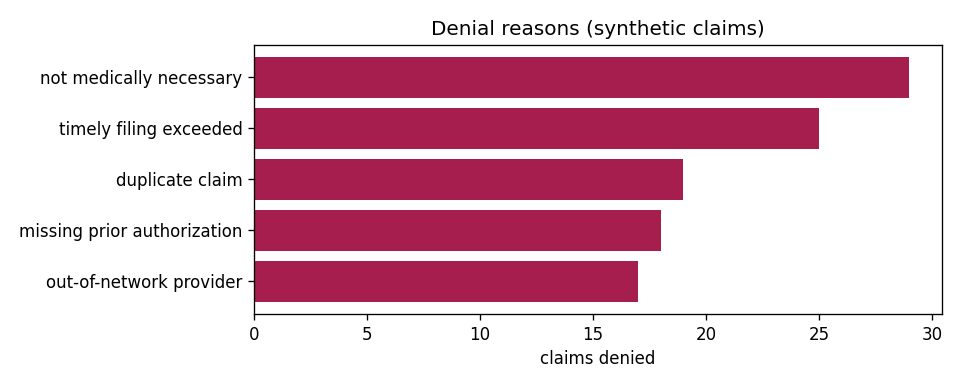
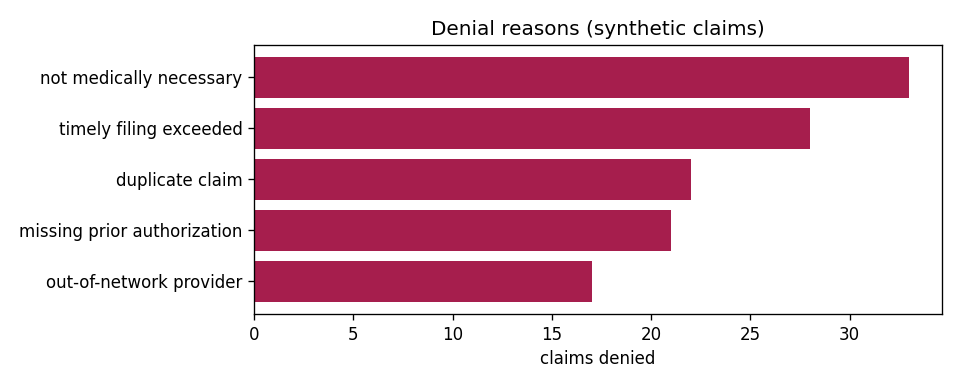
Add cost-by-age-band mart and chart
Average paid per claim and denial rate by age band, in the report with a chart (synthetic, illustrative). +120 synthetic claims, 2 new tests (34 total).

diff --git a/src/healthdata/report.py b/src/healthdata/report.py
@@ -14,7 +14,8 @@ def render_markdown(monthly: list[dict], denial_reasons: list[tuple[str, int]],
                     generated_at: dt.datetime | None = None,
                     plan_perf: list[dict] | None = None,
                     procedures: list[dict] | None = None,
-                    utilization: dict | None = None) -> str:
+                    utilization: dict | None = None,
+                    age_bands: list[dict] | None = None) -> str:
     generated_at = generated_at or dt.datetime.now(dt.timezone.utc)
     total_paid = sum(m["paid"] for m in monthly)
     total_billed = sum(m["billed"] for m in monthly)
@@ -67,6 +68,8 @@ def render_markdown(monthly: list[dict], denial_reasons: list[tuple[str, int]],
                   "| Member | Claims | Paid |", "| --- | ---: | ---: |"]
         for r in utilization["top"]:
             lines.append(f"| {r['member_id']} | {r['claims']} | ${r['paid']:,.0f} |")
+    if age_bands:
+        lines += ["", "## Cost by age band", "", "![Average paid by age band](age_band_costs.png)"]
     lines += [
         "",
         "![Monthly billed vs paid](monthly_financials.png)",
@@ -111,6 +114,23 @@ def plot_denial_reasons(denial_reasons: list[tuple[str, int]], out_path) -> bool
     ax.set_title("Denial reasons (synthetic claims)")
     ax.set_xlabel("claims denied")
     ax.invert_yaxis()
+    fig.tight_layout()
+    fig.savefig(out_path, dpi=120)
+    plt.close(fig)
+    return True
+
+
+def plot_age_band_costs(age_bands: list[dict], out_path) -> bool:
+    if not age_bands:
+        return False
+    names = [b["age_band"] for b in age_bands]
+    fig, ax = plt.subplots(figsize=(8, 3.6))
+    bars = ax.bar(names, [b["avg_paid"] for b in age_bands], color="#1c7ed6")
+    for bar, b in zip(bars, age_bands):
+        ax.annotate(f"{b['denial_rate']:.0%} denied", (bar.get_x() + bar.get_width() / 2,
+                    bar.get_height()), ha="center", va="bottom", fontsize=8)
+    ax.set_title("Average paid per claim by age band (synthetic claims)")
+    ax.set_ylabel("USD per claim")
     fig.tight_layout()
     fig.savefig(out_path, dpi=120)
     plt.close(fig)

diff --git a/tests/test_pipeline.py b/tests/test_pipeline.py
@@ -140,3 +140,24 @@ def test_report_includes_utilization_section():
         "members_total": 10, "high_utilizers": 2, "share_of_paid": 0.25,
         "top": [{"member_id": "MBR-0001", "claims": 4, "paid": 900.0}]})
     assert "## Member utilization" in md and "| MBR-0001 | 4 | $900 |" in md
+
+
+def test_age_band_costs_order_and_math(tmp_path):
+    pipe = Pipeline(tmp_path / "c.csv")
+    pipe.ingest([
+        make_valid("CLM-1", age_band="60-74", billed_amount=100, allowed_amount=80, paid_amount=60),
+        make_valid("CLM-2", age_band="0-17", billed_amount=100, allowed_amount=80, paid_amount=40),
+        make_valid("CLM-3", age_band="0-17", billed_amount=100, allowed_amount=0, paid_amount=0,
+                   status="denied", denial_reason="duplicate claim"),
+    ])
+    out = pipe.age_band_costs()
+    assert [b["age_band"] for b in out] == ["0-17", "60-74"]  # natural age order
+    assert out[0]["avg_paid"] == 20.0 and out[0]["denial_rate"] == 0.5
+
+
+def test_age_band_chart_written(tmp_path):
+    from healthdata import report
+    bands = [{"age_band": "0-17", "claims": 2, "avg_paid": 20.0, "denial_rate": 0.5}]
+    assert report.plot_age_band_costs(bands, tmp_path / "a.png")
+    assert (tmp_path / "a.png").stat().st_size > 1000
+    assert report.plot_age_band_costs([], tmp_path / "b.png") is False

diff --git a/src/healthdata/pipeline.py b/src/healthdata/pipeline.py
@@ -177,3 +177,21 @@ class Pipeline:
             "top": [{"member_id": m["member_id"], "claims": m["claims"],
                      "paid": round(m["paid"], 2)} for m in top_rows],
         }
+
+    def age_band_costs(self) -> list[dict]:
+        """Claims, average paid per claim and denial rate by age band, in
+        natural age order. Illustrative synthetic metrics."""
+        from .claims import AGE_BANDS
+        store = self.load_store()
+        bands: dict[str, dict] = {}
+        for row in store.values():
+            b = bands.setdefault(row["age_band"] or "Unknown",
+                                 {"claims": 0, "paid": 0.0, "denied": 0})
+            b["claims"] += 1
+            b["paid"] += float(row["paid_amount"] or 0)
+            b["denied"] += row["status"] == "denied"
+        order = {band: i for i, band in enumerate(AGE_BANDS)}
+        return [{"age_band": name, "claims": b["claims"],
+                 "avg_paid": round(b["paid"] / b["claims"], 2),
+                 "denial_rate": round(b["denied"] / b["claims"], 4)}
+                for name, b in sorted(bands.items(), key=lambda kv: (order.get(kv[0], 99), kv[0]))]

diff --git a/scripts/daily_update.py b/scripts/daily_update.py
@@ -53,11 +53,14 @@ def main() -> int:
         report.render_markdown(monthly, reasons, mix, stats["total"],
                                plan_perf=pipe.plan_performance(),
                                procedures=pipe.procedure_summary(),
-                               utilization=pipe.high_utilizers()),
+                               utilization=pipe.high_utilizers(),
+                               age_bands=pipe.age_band_costs()),
         encoding="utf-8",
     )
     if report.plot_monthly_financials(monthly, REPORTS / "monthly_financials.png"):
         print("wrote financials chart")
+    if report.plot_age_band_costs(pipe.age_band_costs(), REPORTS / "age_band_costs.png"):
+        print("wrote age band chart")
     if report.plot_denial_reasons(reasons, REPORTS / "denial_reasons.png"):
         print("wrote denial chart")
     print("wrote reports/claims_report.md")

diff --git a/reports/claims_report.md b/reports/claims_report.md
@@ -1,8 +1,8 @@
 # Healthcare Data - claims pipeline report
 
-Generated 2026-11-17 13:06 UTC. All data is synthetic - no real member, patient or plan information.
+Generated 2026-11-17 18:06 UTC. All data is synthetic - no real member, patient or plan information.
 
-**1100 claims** in store. Billed $3,090,499, paid $1,792,600, denied 107 overall.
+**1220 claims** in store. Billed $3,582,459, paid $2,076,761, denied 120 overall.
 
 ## Monthly financials
 
@@ -20,53 +20,57 @@ Generated 2026-11-17 13:06 UTC. All data is synthetic - no real member, patient 
 | 2026-08 | 50 | $87,251 | $70,911 | $55,220 | 18.0% |
 | 2026-09 | 28 | $97,162 | $80,729 | $53,482 | 7.1% |
 | 2026-10 | 47 | $71,505 | $55,063 | $42,442 | 8.5% |
-| 2026-11 | 621 | $1,820,537 | $1,388,339 | $1,001,151 | 9.3% |
+| 2026-11 | 741 | $2,312,496 | $1,782,264 | $1,285,311 | 9.6% |
 
 ## Denial reasons
 
-- not medically necessary (29)
-- timely filing exceeded (25)
-- duplicate claim (19)
-- missing prior authorization (18)
+- not medically necessary (33)
+- timely filing exceeded (28)
+- duplicate claim (22)
+- missing prior authorization (21)
 - out-of-network provider (17)
 
 ## Plan mix
 
-- PPO: 298
-- HMO: 289
-- EPO: 269
-- HDHP: 244
+- HMO: 328
+- PPO: 324
+- EPO: 292
+- HDHP: 276
 
 ## Plan performance
 
 | Plan | Claims | Denial rate | Paid / billed |
 | --- | ---: | ---: | ---: |
-| PPO | 298 | 9.7% | 53.7% |
-| HMO | 289 | 10.0% | 61.8% |
-| EPO | 269 | 9.3% | 55.9% |
-| HDHP | 244 | 10.2% | 60.1% |
+| HMO | 328 | 10.1% | 63.2% |
+| PPO | 324 | 10.5% | 52.6% |
+| EPO | 292 | 9.6% | 54.4% |
+| HDHP | 276 | 9.4% | 60.6% |
 
 ## Top procedures by paid amount
 
 | Code | Claims | Avg billed | Paid | Denial rate |
 | --- | ---: | ---: | ---: | ---: |
-| 27447 | 107 | $24,456 | $1,514,539 | 10.3% |
-| 43239 | 105 | $2,062 | $124,095 | 11.4% |
-| 99285 | 105 | $1,065 | $66,343 | 6.7% |
-| 70450 | 116 | $657 | $46,848 | 5.2% |
-| 99214 | 98 | $166 | $8,855 | 15.3% |
+| 27447 | 123 | $24,746 | $1,760,866 | 11.4% |
+| 43239 | 123 | $2,057 | $145,481 | 10.6% |
+| 99285 | 118 | $1,070 | $73,955 | 7.6% |
+| 70450 | 126 | $667 | $51,855 | 4.8% |
+| 99214 | 105 | $165 | $9,641 | 14.3% |
 
 ## Member utilization
 
-40 of 852 synthetic members have 3+ claims and account for 9.5% of paid dollars.
+52 of 917 synthetic members have 3+ claims and account for 9.5% of paid dollars.
 
 | Member | Claims | Paid |
 | --- | ---: | ---: |
 | MBR-1424 | 5 | $14,713 |
 | MBR-1542 | 4 | $27,681 |
 | MBR-0471 | 4 | $16,601 |
-| MBR-0784 | 4 | $986 |
-| MBR-1137 | 3 | $20,203 |
+| MBR-0746 | 4 | $11,296 |
+| MBR-1062 | 4 | $9,888 |
+
+## Cost by age band
+
+![Average paid by age band](age_band_costs.png)
 
 ![Monthly billed vs paid](monthly_financials.png)
 
